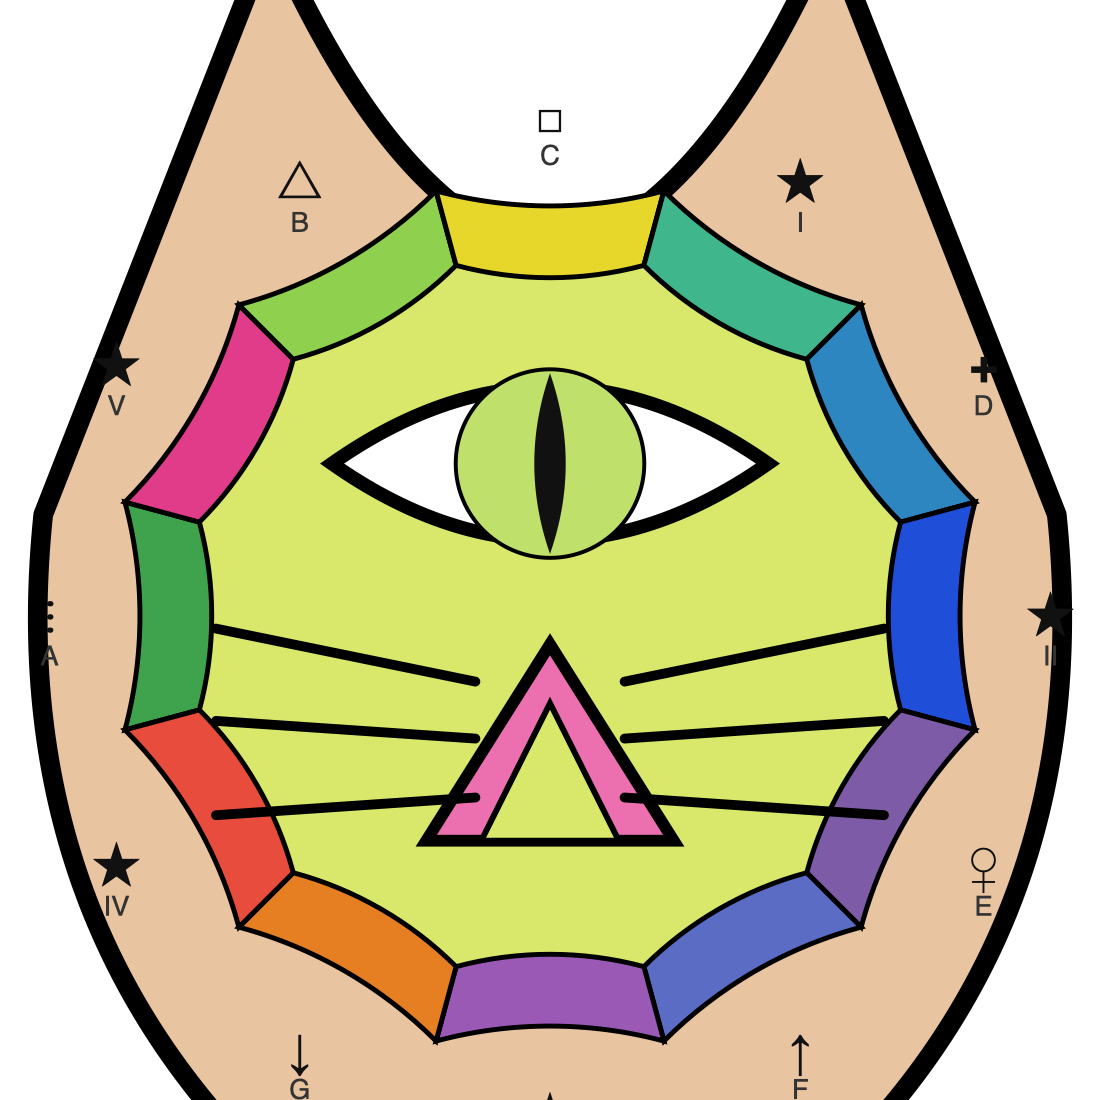
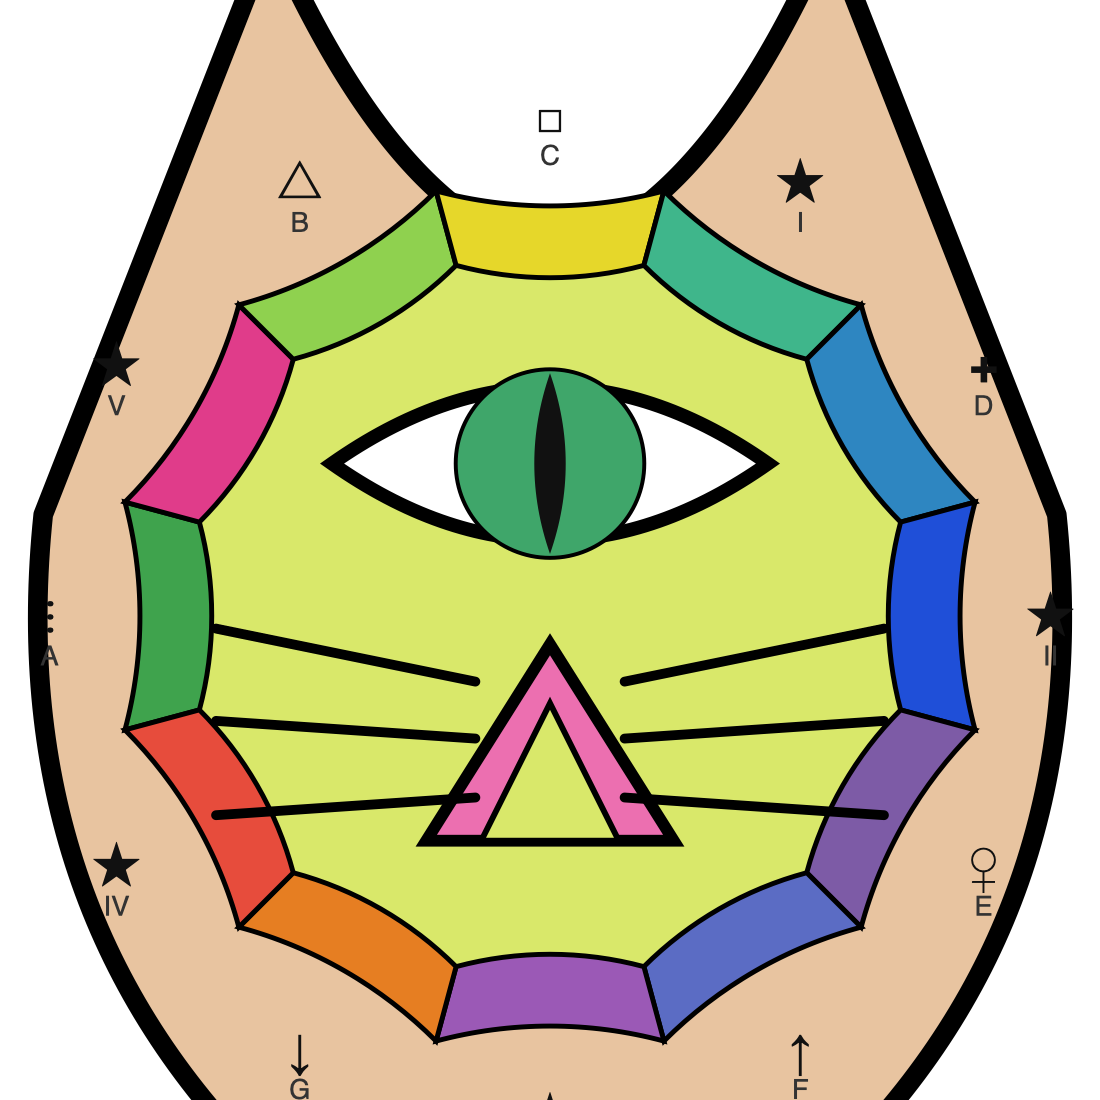
fix: apply expert-panel fixes (canonical hours, dead code, docs drift, eye iris)
- QUE_ES_FRACTALWORLD: correct 4 stale clock hours (A#=2, D=10, D#=3, G#=4)
  to match the live circle-of-fourths formula; add a callout explaining the
  bijection and add Función Cuartal + potenciación to the glossary.
- README: align with reality — wheel ring is chromatic, only the clock-hour
  data follows fourths; refresh test counts to 120/100% coverage.
- gatople.py docstring: angle_deg, not chromatic_angle.
- modes.py uses BLACK_STAR constant; symbols.py drops unused PENTA_ROMANS and
  NATURAL_GLYPH_BY_NOTE (modes.py owns those bindings).
- scales.py PENTA_MODES comments scope spellings to canonical roots.
- gallery.py: replace assert with ValueError, anchor _DEFAULT_DIR to repo root.
- svg.py: darker iris green (#3fa66a) for contrast against the face field.
- +1 test for _stack error path; 121 tests, 100% coverage, ruff+mypy clean.

Changed region(s): [[0.4018, 0.34, 0.5873, 0.5255]]

diff --git a/fractalmusic/symbols.py b/fractalmusic/symbols.py
@@ -26,19 +26,5 @@ FRIGIO: Final[str] = "♀"  # E — female sign (stands in for koppa ϙ)
 LIDIO: Final[str] = "↑"  # F — up arrow
 MIXOLIDIO: Final[str] = "↓"  # G — down arrow
 
-# --- The pentatonic / black-key marker ---
-BLACK_STAR: Final[str] = "★"  # ★ — the 5 penta stars
-
-# Roman numerals label the 5 pentatonic stars, in penta-mode order.
-PENTA_ROMANS: Final[tuple[str, ...]] = ("I", "II", "III", "IV", "V")
-
-# Natural-note glyph in chromatic A-order at the natural indices (A B C D E F G).
-NATURAL_GLYPH_BY_NOTE: Final[dict[str, str]] = {
-    "A": EOLICO,
-    "B": LOCRIO,
-    "C": JONICO,
-    "D": DORICO,
-    "E": FRIGIO,
-    "F": LIDIO,
-    "G": MIXOLIDIO,
-}
+# --- The pentatonic / black-key marker (the 5 penta stars) ---
+BLACK_STAR: Final[str] = "★"

diff --git a/fractalmusic/scales.py b/fractalmusic/scales.py
@@ -16,15 +16,16 @@ from fractalmusic.modes import PENTA, mode_for
 
 ORIGIN_NOTE: Final[str] = "A"  # La menor / Eólico — the matriarchal origin
 
-# The 5 pentatonic modes as semitone steps (sum = 12). Derived from the book's
-# note spellings; none contains a semitone (step of 1), per Ch. 9.
-# Each penta mode is a rotation of the black-key step cycle (2,3,2,2,3 from C#).
+# The 5 pentatonic modes as semitone-step patterns (each sums to 12, none has a
+# semitone, per Ch. 9). Each is a rotation of the black-key cycle (2,3,2,2,3).
+# The note spellings below are the canonical black-key roots; passing any other
+# root to penta() transposes the same step pattern.
 PENTA_MODES: Final[dict[str, tuple[int, ...]]] = {
-    "I": (2, 3, 2, 2, 3),  # Penta 1  C# D# F# G# A#
-    "II": (3, 2, 2, 3, 2),  # Penta 2  D# F# G# A# C#
-    "III": (2, 2, 3, 2, 3),  # Penta 3  F# G# A# C# D#
-    "IV": (2, 3, 2, 3, 2),  # Penta 4  G# A# C# D# F#
-    "V": (3, 2, 3, 2, 2),  # Penta 5  A# C# D# F# G#
+    "I": (2, 3, 2, 2, 3),  # Penta 1, from C#: C# D# F# G# A#
+    "II": (3, 2, 2, 3, 2),  # Penta 2, from D#: D# F# G# A# C#
+    "III": (2, 2, 3, 2, 3),  # Penta 3, from F#: F# G# A# C# D#
+    "IV": (2, 3, 2, 3, 2),  # Penta 4, from G#: G# A# C# D# F#
+    "V": (3, 2, 3, 2, 2),  # Penta 5, from A#: A# C# D# F# G#
 }
 
 

diff --git a/tests/unit/test_svg.py b/tests/unit/test_svg.py
@@ -1,6 +1,7 @@
 """Unit tests — SVG renderers and the gallery writer."""
 
-from fractalmusic.gallery import write_gallery
+import pytest
+from fractalmusic.gallery import _stack, write_gallery
 from fractalmusic.scales import mode_scale, penta
 from fractalmusic.svg import (
     deck_grid,
@@ -57,6 +58,11 @@ def test_fretboard_stickers_render_open_and_frets():
     svg = fretboard_stickers_svg(frets=12)
     assert _is_svg(svg)
     assert ">12<" in svg  # 12th-fret label present
+
+
+def test_stack_rejects_svg_without_dimensions():
+    with pytest.raises(ValueError, match="width/height"):
+        _stack(["<svg></svg>"])
 
 
 def test_gallery_writes_all_artifacts(tmp_path):

diff --git a/fractalmusic/gallery.py b/fractalmusic/gallery.py
@@ -16,7 +16,9 @@ from fractalmusic.svg import (
     scale_strip,
 )
 
-_DEFAULT_DIR = Path("docs/assets")
+# Anchor the default output to the repo's docs/assets, not the caller's CWD, so
+# the gallery never scatters files into an arbitrary working directory.
+_DEFAULT_DIR = Path(__file__).resolve().parent.parent / "docs" / "assets"
 _GREEK_ROOTS = ("A", "B", "C", "D", "E", "F", "G")
 _PENTA_ROOTS = (("I", "C#"), ("II", "D#"), ("III", "F#"), ("IV", "G#"), ("V", "A#"))
 
@@ -29,7 +31,8 @@ def _stack(svgs: list[str], *, gap: int = 8) -> str:
     for svg in svgs:
         width_match = re.search(r"width='(\d+)'", svg)
         height_match = re.search(r"height='(\d+)'", svg)
-        assert width_match and height_match  # svg.py always emits both
+        if not (width_match and height_match):
+            raise ValueError("svg is missing width/height attributes")
         width = int(width_match.group(1))
         height = int(height_match.group(1))
         inner = re.sub(r"^<svg[^>]*>", "", svg)

diff --git a/fractalmusic/gatople.py b/fractalmusic/gatople.py
@@ -6,8 +6,8 @@ Dodecamundo. This is the geometric heart of Pattorres's "ubicación y medida
 musical" — the Cero Pitágoras measurement (Ch. 4).
 
 Two angular frames coexist:
-  * ``chromatic_angle`` — uniform 30°/semitone from A, used for interval math.
-  * ``clock_hour`` — the book's named mode positions on the 12-hour face.
+  * ``angle_deg`` (ClockPosition) — uniform 30°/semitone from A, for interval math.
+  * ``clock_hour`` — the book's circle-of-fourths mode positions on the 12-hour face.
 """
 
 from dataclasses import dataclass

diff --git a/fractalmusic/modes.py b/fractalmusic/modes.py
@@ -12,6 +12,7 @@ from dataclasses import dataclass
 from typing import Final
 
 from fractalmusic.symbols import (
+    BLACK_STAR,
     DORICO,
     EOLICO,
     FRIGIO,
@@ -73,7 +74,7 @@ def _penta(note: str, name: str, quality: str) -> Mode:
     black = ("C#", "D#", "F#", "G#", "A#")
     start = black.index(note)
     order = tuple(black[(start + step) % 5] for step in range(5))
-    return Mode(note, name, PENTA, "★", quality, _clock_hour(note), order)
+    return Mode(note, name, PENTA, BLACK_STAR, quality, _clock_hour(note), order)
 
 
 # Heptatonic modes — white keys (Ch. 4 & 8).

diff --git a/fractalmusic/svg.py b/fractalmusic/svg.py
@@ -68,7 +68,7 @@ def _cyclops_eye(cx: float, ey: float, w: float, h: float) -> str:
         f"Q {cx:.0f},{ey + h:.0f} {cx - w:.0f},{ey:.0f} Z' fill='#fff' "
         f"stroke='#000' stroke-width='7'/>"
         # pale-green iris, clearly lighter than the face field
-        f"<circle cx='{cx:.0f}' cy='{ey:.0f}' r='{iris_r:.0f}' fill='#bfe06a' "
+        f"<circle cx='{cx:.0f}' cy='{ey:.0f}' r='{iris_r:.0f}' fill='#3fa66a' "
         f"stroke='#000' stroke-width='2'/>"
         # vertical slit pupil
         f"<path d='M {cx:.0f},{ey - iris_r * 0.95:.0f} "

diff --git a/QUE_ES_FRACTALWORLD.md b/QUE_ES_FRACTALWORLD.md
@@ -74,17 +74,21 @@ Cada mundo lleva el glifo de su modo (cap. 8, "Música de Colores"):
 | Nota | Modo | Glifo | Calidad | Hora | Color |
 |------|------|:-----:|---------|:----:|-------|
 | A | Eólico | `⋮` | menor | 9 | verde |
-| A♯ | Penta 5 | `★ V` | menor | 1 | magenta |
+| A♯ | Penta 5 | `★ V` | menor | 2 | magenta |
 | B | Locrio | `△` | disminuido | 7 | verde-amarillo |
 | C | Jónico | `□` | mayor | 12 | amarillo |
 | C♯ | Penta 1 | `★ I` | menor | 5 | turquesa |
-| D | Dórico | `+` | menor | 2 | azul |
-| D♯ | Penta 2 | `★ II` | menor | 9 | azul profundo |
+| D | Dórico | `+` | menor | 10 | azul |
+| D♯ | Penta 2 | `★ II` | menor | 3 | azul profundo |
 | E | Frigio | `♀` | menor | 8 | violeta |
 | F | Lidio | `↑` | mayor | 1 | índigo |
 | F♯ | Penta 3 | `★ III` | mayor | 6 | púrpura |
 | G | Mixolidio | `↓` | mayor | 11 | naranja |
-| G♯ | Penta 4 | `★ IV` | menor | 3 | rojo |
+| G♯ | Penta 4 | `★ IV` | menor | 4 | rojo |
+
+> Las horas siguen el **círculo de cuartas** (Función Cuartal, cap. 4): cada hora
+> avanza una cuarta justa (+5 semitonos) desde A Eólico = 9. Es una biyección:
+> las 12 notas ocupan las 12 horas sin repetición.
 
 - `⋮` Eólico — los dos puntos de la división; descanso, el horizonte estable.
 - `△` Locrio — el triángulo; puerta entre los mundos penta y hepta.
@@ -138,6 +142,10 @@ heptatónicas (el 5 viene antes que el 7). Son el "sistema óseo" de la música:
 - **Penta-modo** — uno de los 5 modos pentatónicos (estrellas I–V).
 - **Microestructura** — una de las 60 escalas penta (5 modos × 12 raíces).
 - **Etno-matemática** — el lenguaje numérico-natural-filosófico de la música.
+- **Función Cuartal** — el orden por cuartas justas (+5 semitonos) que rige el reloj
+  del Gátople; ubica cada nota en su hora desde A Eólico = 9.
+- **Potenciación** — el crecimiento geométrico (cuento del tablero de ajedrez): un
+  número se multiplica por sí mismo hasta el infinito (8 = ∞).
 - **VDMG** — "Virus del Mal Gusto", el antagonista pedagógico del libro.
 
 ---

diff --git a/README.md b/README.md
@@ -18,8 +18,9 @@ native tone order: index 0 = A, index 3 = C.
 ## Gallery
 
 The **Gátople** — the cat-cyclops mandala: a 12-world chromatic ring around the
-slit eye, with the pyramid nose and whiskers. **C Jónico sits at 12 o'clock and A
-Eólico at 9 o'clock**, following the book's circle-of-fourths clock:
+slit eye, with the pyramid nose and whiskers. The ring is laid out chromatically
+with **C Jónico at 12 o'clock and A Eólico at 9 o'clock**. (The named *clock
+hours* in the data follow the book's circle of fourths — see the showcase.)
 
 <p align="center">
   <img src="docs/assets/gatople-wheel.png" alt="The Gátople mandala" width="380">
@@ -128,12 +129,12 @@ Cero Pitágoras (A)     A  B  D  E  F#         ⋮ △ + ♀ ★
 
 ## Testing
 
-Three tiers, **89 tests, ~98% coverage**:
+Three tiers, **120 tests, 100% coverage**:
 
 ```bash
 make test                         # pytest with coverage (all tiers)
 make check                        # lint, format, type-check, test, security scan
-uv run pytest tests/unit          # 67 — data model & invariants
+uv run pytest tests/unit          # 98 — data model & invariants
 uv run pytest tests/integration   # 13 — cross-module + pytheory interop
 uv run pytest tests/uat           # 9  — Gherkin behavioral scenarios
 ```